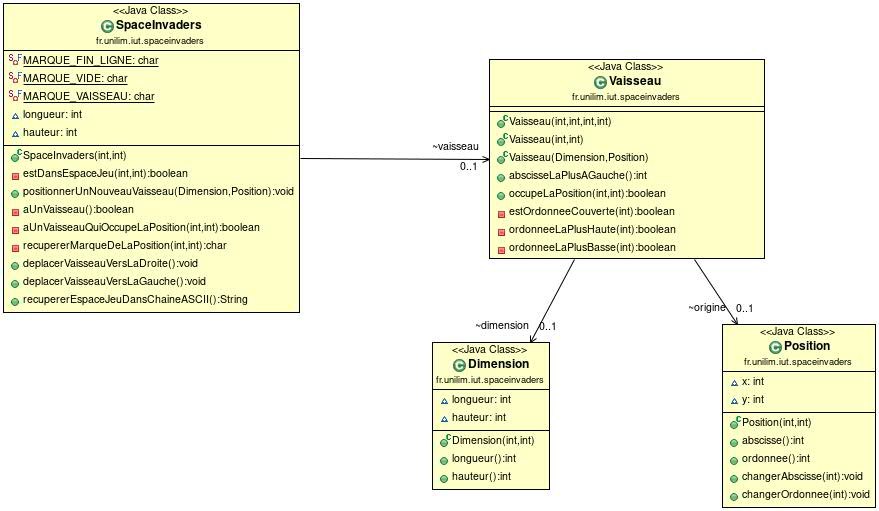
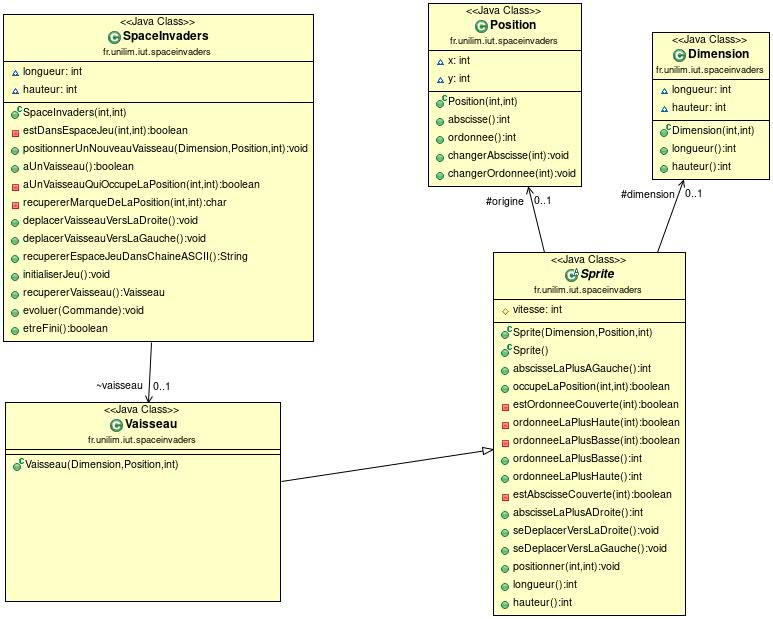
Refactoring de vaisseau avec ajout de Sprite

diff --git a/src/main/java/fr/unilim/iut/spaceinvaders/Vaisseau.java b/src/main/java/fr/unilim/iut/spaceinvaders/Vaisseau.java
@@ -1,84 +1,9 @@
 package fr.unilim.iut.spaceinvaders;
 
-public class Vaisseau {
+public class Vaisseau extends Sprite {
 
-	Position origine;
-	Dimension dimension;
-	private int vitesse;
-
-	public Vaisseau(int longueur, int hauteur, int x, int y) {
-		this(new Dimension(longueur, hauteur), new Position(x, y));
-	}
-
-	public Vaisseau(int longueur, int hauteur) {
-		this(longueur, hauteur, 0, 0);
-	}
-
-	public Vaisseau(Dimension dimension, Position positionOrigine) {
-		this(dimension, positionOrigine, 1);
-	}
-	
 	public Vaisseau(Dimension dimension, Position positionOrigine, int vitesse) {
-		this.dimension = dimension;
-		this.origine = positionOrigine;
-		this.vitesse = vitesse;
+		super(dimension, positionOrigine, vitesse);
 	}
 
-	public int abscisseLaPlusAGauche() {
-		return this.origine.abscisse();
-	}
-
-	public boolean occupeLaPosition(int x, int y) {
-		return (estAbscisseCouverte(x) && estOrdonneeCouverte(y));
-	}
-
-	private boolean estOrdonneeCouverte(int y) {
-		return ordonneeLaPlusBasse(y) && ordonneeLaPlusHaute(y);
-	}
-
-	private boolean ordonneeLaPlusHaute(int y) {
-		return y <= this.origine.ordonnee();
-	}
-
-	private boolean ordonneeLaPlusBasse(int y) {
-		return this.origine.ordonnee() - this.dimension.hauteur() + 1 <= y;
-	}
-
-	public int ordonneeLaPlusBasse() {
-		return this.origine.ordonnee() - this.dimension.hauteur() + 1;
-	}
-	
-	public int ordonneeLaPlusHaute() {
-		return this.origine.ordonnee();
-	}
-
-
-	private boolean estAbscisseCouverte(int x) {
-		return (abscisseLaPlusAGauche() <= x) && (x <= abscisseLaPlusADroite());
-	}
-
-	public int abscisseLaPlusADroite() {
-		return this.origine.abscisse() + this.dimension.longueur() - 1;
-	}
-
-	public void seDeplacerVersLaDroite() {
-		this.origine.changerAbscisse(this.origine.abscisse() + vitesse);
-	}
-
-	public void seDeplacerVersLaGauche() {
-		this.origine.changerAbscisse(this.origine.abscisse() - vitesse);
-	}
-
-	public void positionner(int x, int y) {
-		this.origine.changerAbscisse(x);
-		this.origine.changerOrdonnee(y);
-	}
-
-	public int longueur() {
-		return this.dimension.longueur();
-	}
-
-	public int hauteur() {
-		return this.dimension.hauteur();
-	}
 }

diff --git a/src/main/java/fr/unilim/iut/spaceinvaders/Sprite.java b/src/main/java/fr/unilim/iut/spaceinvaders/Sprite.java
@@ -1,0 +1,77 @@
+package fr.unilim.iut.spaceinvaders;
+
+public abstract class Sprite {
+
+	protected Position origine;
+	protected Dimension dimension;
+	protected int vitesse;
+
+	public Sprite(Dimension dimension, Position origine, int vitesse) {
+		super();
+		this.dimension = dimension;
+		this.origine = origine;
+		this.vitesse = vitesse;
+	}
+
+	public Sprite() {
+		super();
+	}
+
+	public int abscisseLaPlusAGauche() {
+		return this.origine.abscisse();
+	}
+
+	public boolean occupeLaPosition(int x, int y) {
+		return (estAbscisseCouverte(x) && estOrdonneeCouverte(y));
+	}
+
+	private boolean estOrdonneeCouverte(int y) {
+		return ordonneeLaPlusBasse(y) && ordonneeLaPlusHaute(y);
+	}
+
+	private boolean ordonneeLaPlusHaute(int y) {
+		return y <= this.origine.ordonnee();
+	}
+
+	private boolean ordonneeLaPlusBasse(int y) {
+		return this.origine.ordonnee() - this.dimension.hauteur() + 1 <= y;
+	}
+
+	public int ordonneeLaPlusBasse() {
+		return this.origine.ordonnee() - this.dimension.hauteur() + 1;
+	}
+
+	public int ordonneeLaPlusHaute() {
+		return this.origine.ordonnee();
+	}
+
+	private boolean estAbscisseCouverte(int x) {
+		return (abscisseLaPlusAGauche() <= x) && (x <= abscisseLaPlusADroite());
+	}
+
+	public int abscisseLaPlusADroite() {
+		return this.origine.abscisse() + this.dimension.longueur() - 1;
+	}
+
+	public void seDeplacerVersLaDroite() {
+		this.origine.changerAbscisse(this.origine.abscisse() + vitesse);
+	}
+
+	public void seDeplacerVersLaGauche() {
+		this.origine.changerAbscisse(this.origine.abscisse() - vitesse);
+	}
+
+	public void positionner(int x, int y) {
+		this.origine.changerAbscisse(x);
+		this.origine.changerOrdonnee(y);
+	}
+
+	public int longueur() {
+		return this.dimension.longueur();
+	}
+
+	public int hauteur() {
+		return this.dimension.hauteur();
+	}
+
+}
